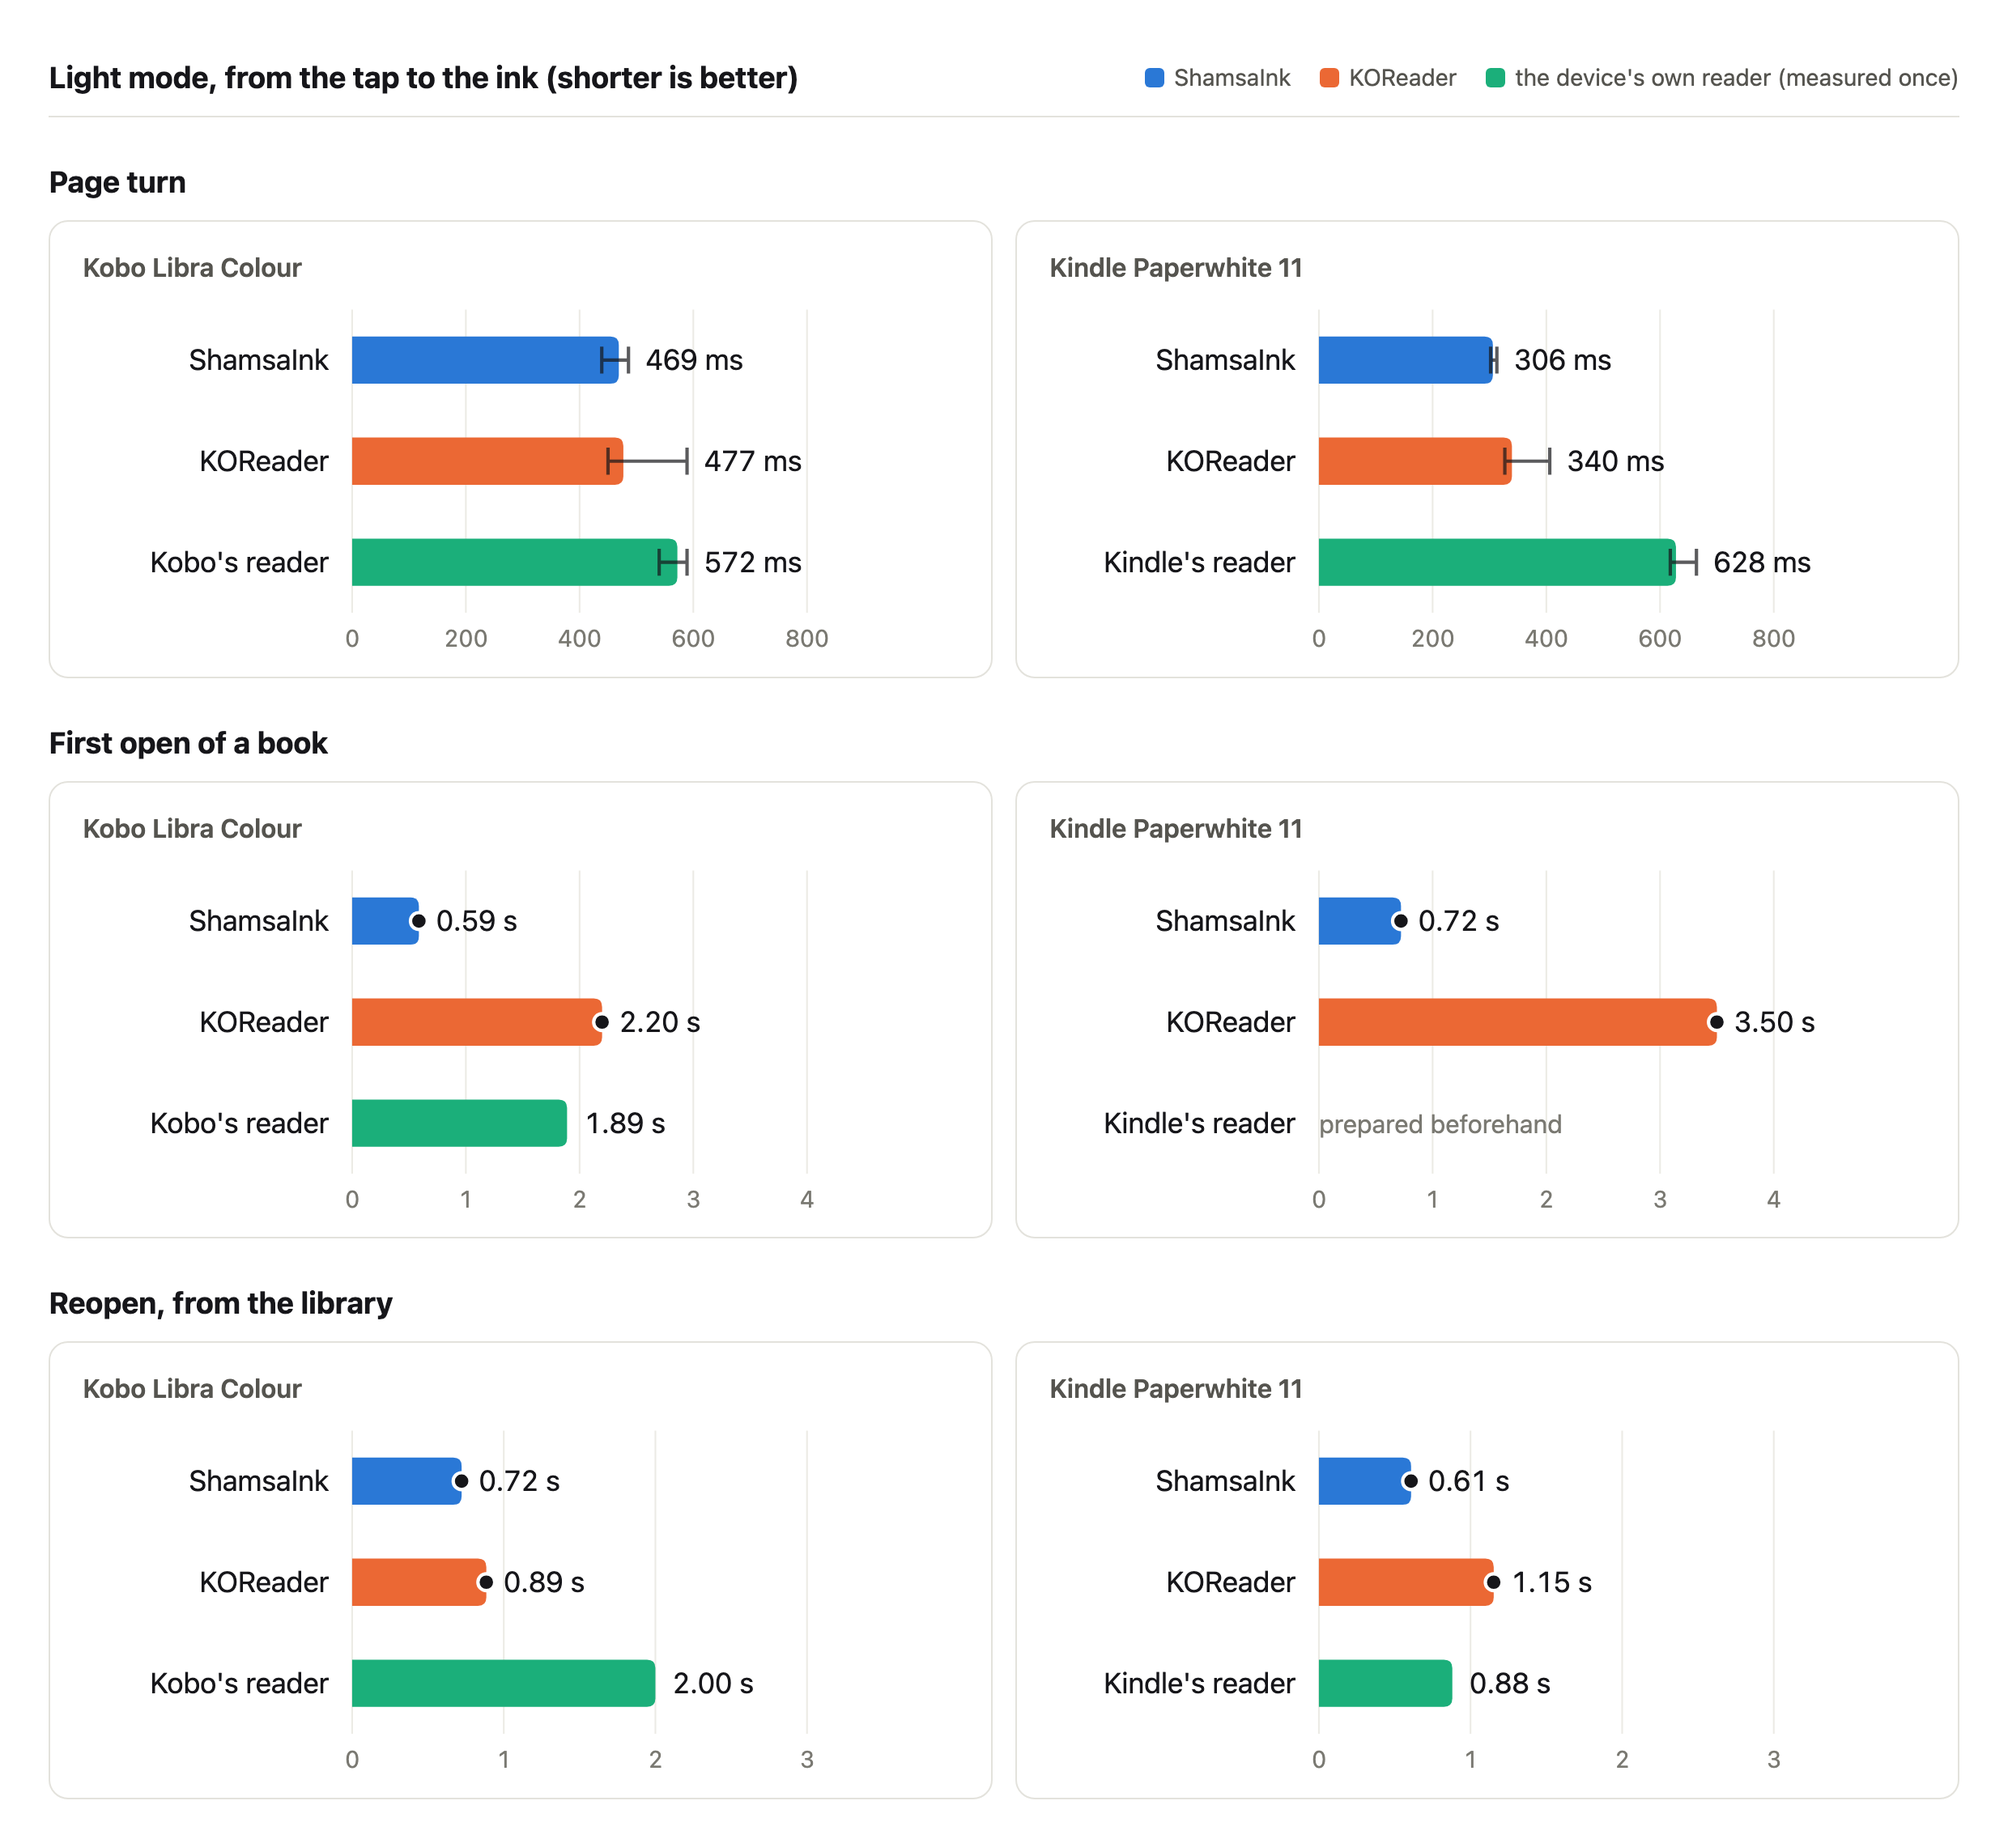
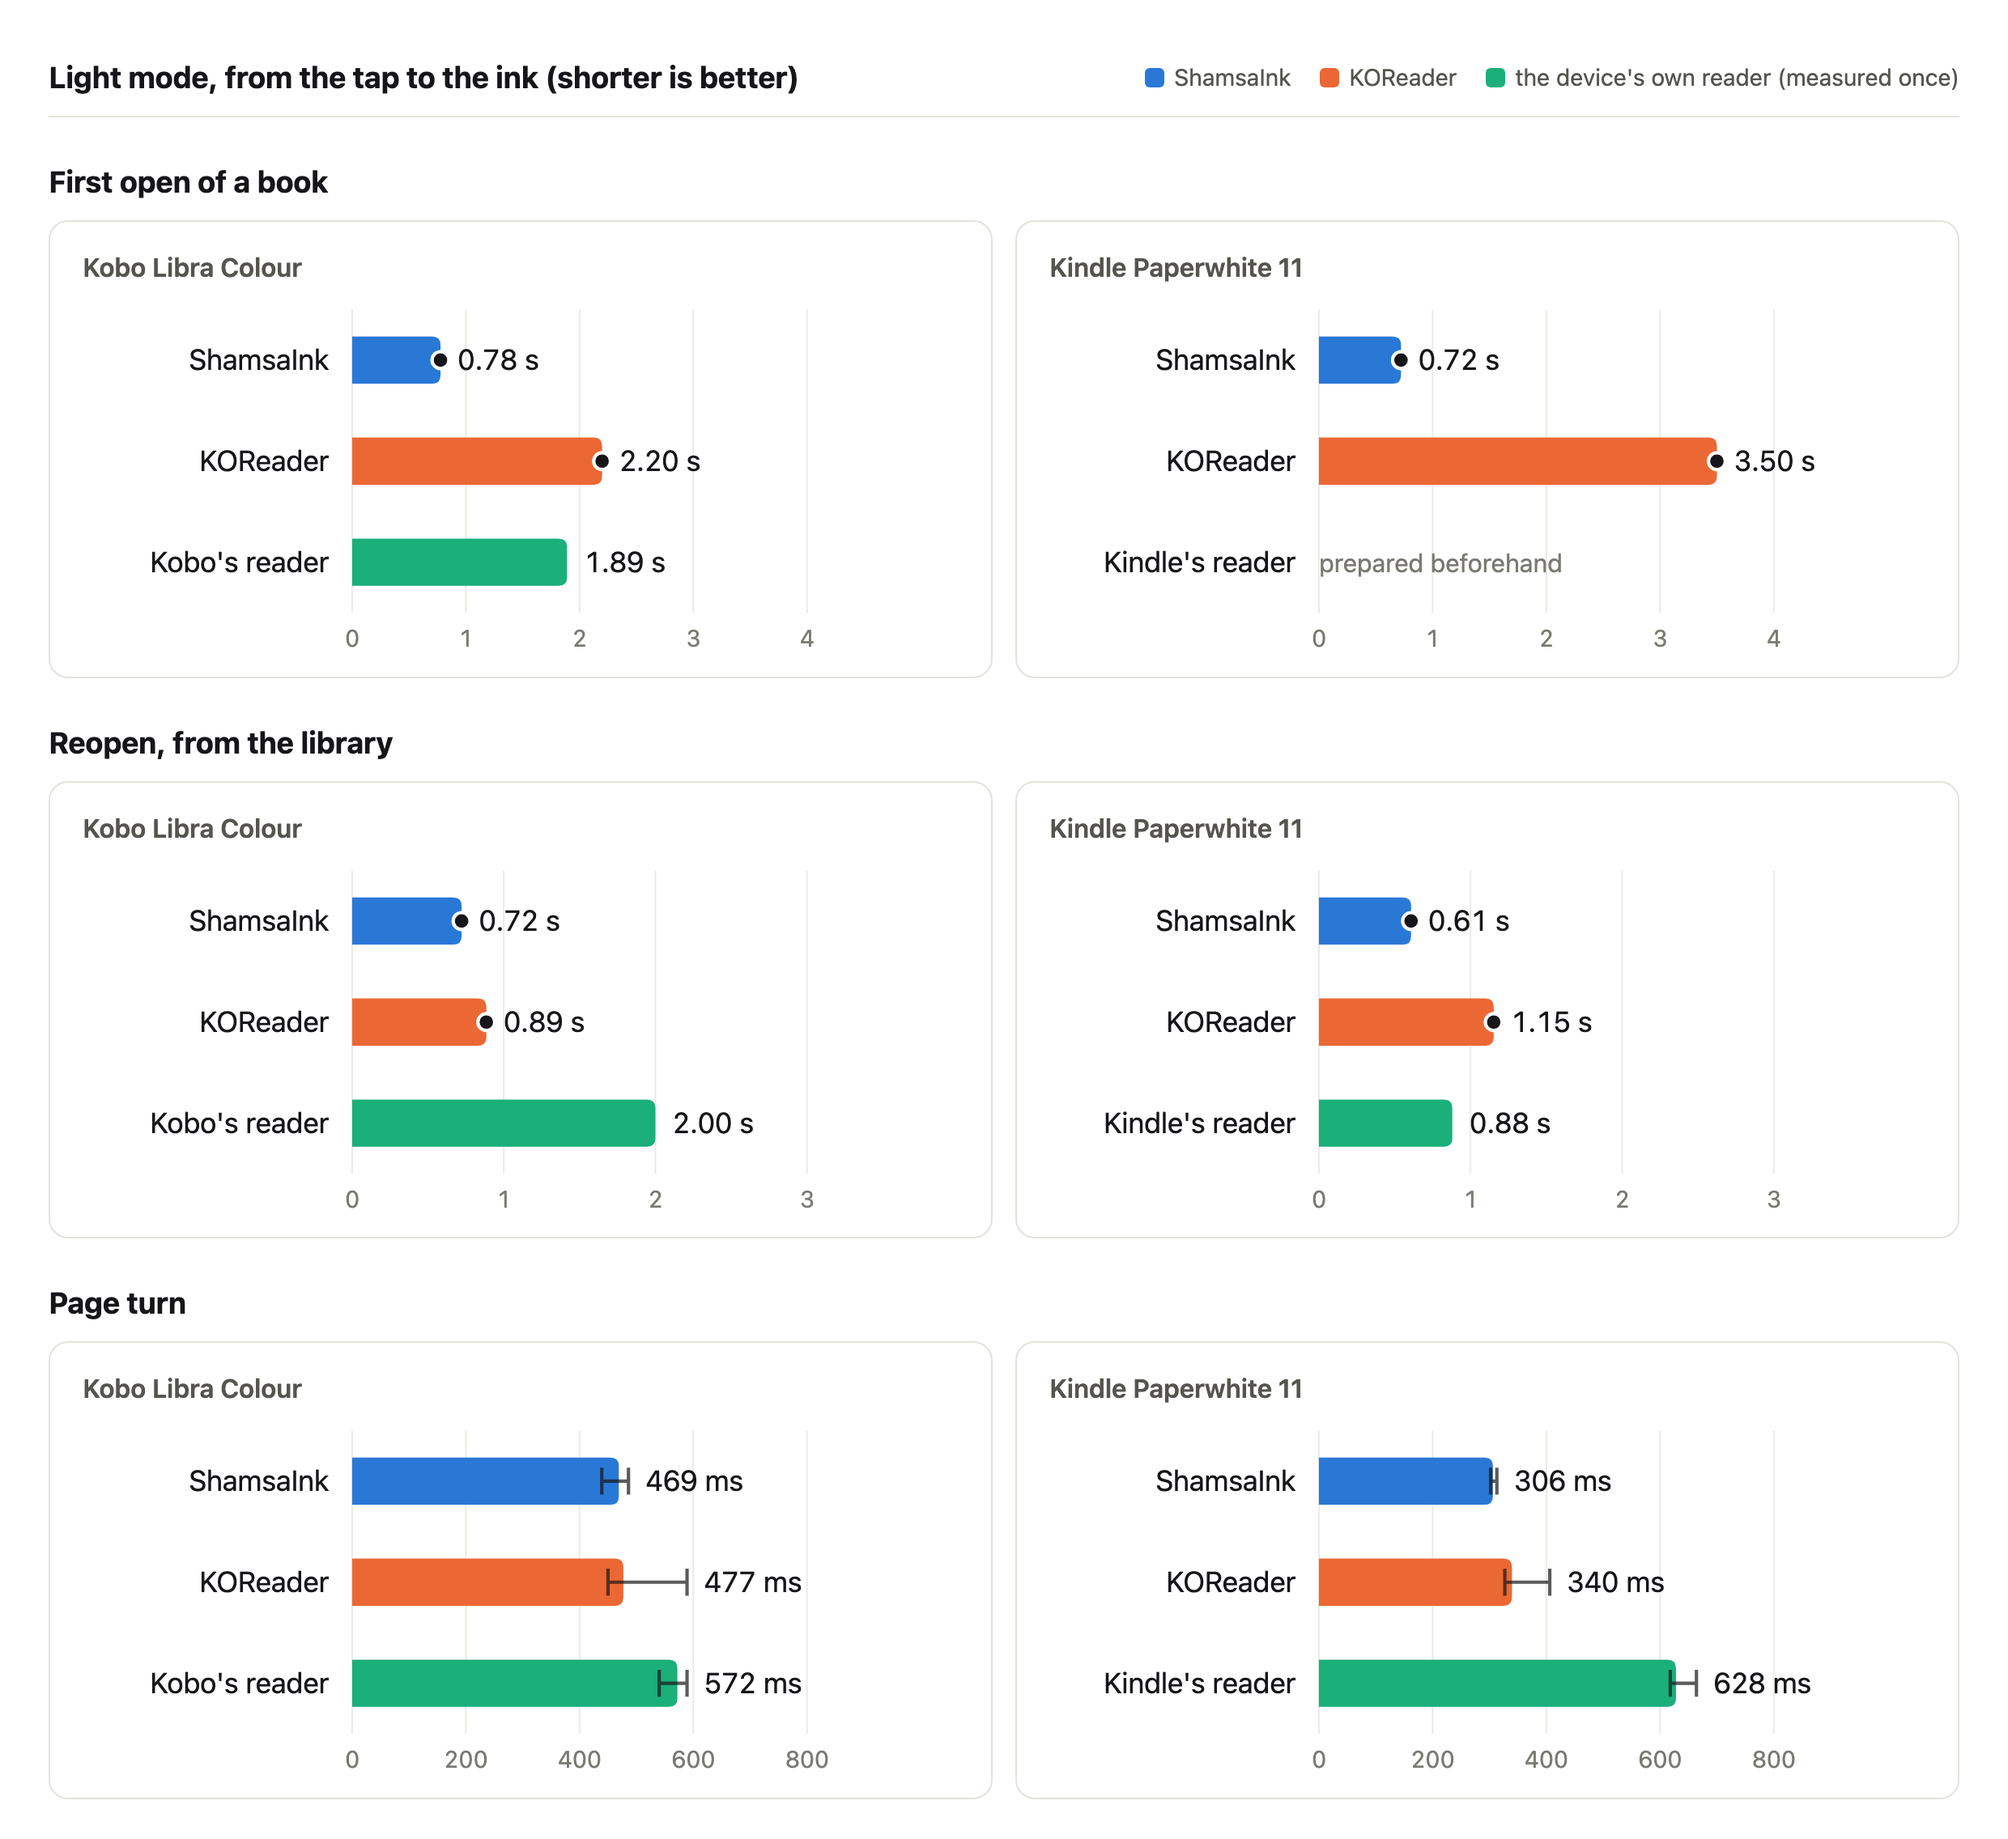
README, perf: the Kobo's first open 0.8 s, not 0.6; the chart and table open, reopen, then turn
The Kobo's run of 2026-11-21 23:14 timed five Farsi books from their cache for its first opens (the scenario took New's
first row; fixed in d44418b). Holmes timed again (2026-11-22): 747-808 ms, median 0.78 s. So the README's table and
chart, CHANGELOG's 0.5.2-beta line (0.2-0.3 s sooner, was 0.3-0.5) and experiment 17's notes are corrected; KOReader 3x
slower there, Kobo's reader 2x. The turns and reopens were always Holmes and stand. The chart and the table now go first
open, reopen, page turn, as the headline does.

diff --git a/perf/summary.template.html b/perf/summary.template.html
@@ -49,7 +49,7 @@ details { background: var(--surface); border: 1px solid var(--line); border-radi
 </div>
 <script>
 const DATA = /*DATA*/[];
-const STEPS = [["turn", "Page turn", "ms"], ["open", "First open", "s"], ["reopen", "Reopen", "s"], ["start", "Start the app", "s"], ["mem", "Memory while reading", "MB"]];
+const STEPS = [["open", "First open", "s"], ["reopen", "Reopen", "s"], ["turn", "Page turn", "ms"], ["start", "Start the app", "s"], ["mem", "Memory while reading", "MB"]];
 const ORDER = ["shamsaink", "koreader", "built-in"];
 const readers = [...new Set(DATA.map(e => e.reader))].sort((a, b) => (ORDER.indexOf(a) + 1 || 9) - (ORDER.indexOf(b) + 1 || 9));
 const NAMES = { shamsaink: "ShamsaInk", koreader: "KOReader", "kobo-libra-colour": "Kobo Libra Colour", "kindle-paperwhite-11": "Kindle Paperwhite 11" };
@@ -121,7 +121,7 @@ function render() {
   }).join("") + "</tr>";
   document.getElementById("table").innerHTML = t;
 }
-// #readme: page turn, first open and reopen in light mode, a row each, the devices side by side, for a picture
+// #readme: first open, reopen and page turn in light mode, a row each, the devices side by side, for a picture
 // (perf/summarize.py --png): the README's chart
 if (location.hash === "#readme" && DATA.length) {
   document.documentElement.classList.add("light"); // the README's picture: light whatever the system's theme

diff --git a/perf/summarize.py b/perf/summarize.py
@@ -5,7 +5,7 @@ them the devices' own readers, measured once by hand (perf/reference/).
 
     python3 -I perf/summarize.py [--since YYYY-MM-DD] [--png FILE]   writes perf/out/summary.html (the charts, one file, nothing
                                                          fetched: open it in a browser) and summary.json (its data);
-                                                         --png: turn, open and reopen as a picture, for the README
+                                                         --png: open, reopen and turn as a picture, for the README
                                                          (docs/images/perf.png), by Google Chrome headless
 
 A times.tsv line: run, name (start-1, open-2, turn-12, reopen-3, reading), kind (time or mem), then for time the last
@@ -95,7 +95,7 @@ CHROME = "/Applications/Google Chrome.app/Contents/MacOS/Google Chrome"
 
 
 def png(page, out):
-    """The page's #readme view (page turn, first open and reopen, light mode, the devices side by side: the README's
+    """The page's #readme view (first open, reopen and page turn, light mode, the devices side by side: the README's
     table) as a picture at twice the size, as tall as it is (the view puts its height in the page's title)."""
     import re
     import subprocess

diff --git a/README.md b/README.md
@@ -110,16 +110,16 @@ The quickest of the readers timed, on both devices: books open 3–5× sooner th
 are as quick as KOReader's or quicker.
 
 <p><img src="docs/images/perf.png" width="720"
-  alt="Light mode, from the tap to the ink. Page turn: on the Kobo, ShamsaInk 469 ms, KOReader 477, Kobo's reader 572; on the Kindle, ShamsaInk 306 ms, KOReader 340, Kindle's reader 628. First open: on the Kobo 0.59 s, 2.20 s and 1.89 s; on the Kindle 0.72 s and 3.50 s. Reopen: on the Kobo 0.72 s, 0.89 s and 2.00 s; on the Kindle 0.61 s, 1.15 s and 0.88 s"></p>
+  alt="Light mode, from the tap to the ink. First open: on the Kobo, ShamsaInk 0.78 s, KOReader 2.20, Kobo's reader 1.89; on the Kindle, ShamsaInk 0.72 s, KOReader 3.50. Reopen: on the Kobo 0.72 s, 0.89 s and 2.00 s; on the Kindle 0.61 s, 1.15 s and 0.88 s. Page turn: on the Kobo 469 ms, 477 ms and 572 ms; on the Kindle 306 ms, 340 ms and 628 ms"></p>
 
 | | ShamsaInk | KOReader | The device's own reader* |
 |---|---|---|---|
-| **Kobo†:** a page turn | **469 ms** | 477 ms | 572 ms |
-| a new book opened | **0.6 s** | 2.2 s (4× slower) | 1.9 s (3× slower) |
+| **Kobo†:** a new book opened | **0.8 s** | 2.2 s (3× slower) | 1.9 s (2× slower) |
 | reopened | **0.7 s** | 0.9 s | 2.0 s (3× slower) |
-| **Kindle:** a page turn | **306 ms** | 340 ms | 628 ms (2× slower) |
-| a new book opened | **0.7 s** | 3.5 s (5× slower) | – (prepared beforehand) |
+| a page turn | **469 ms** | 477 ms | 572 ms |
+| **Kindle:** a new book opened | **0.7 s** | 3.5 s (5× slower) | – (prepared beforehand) |
 | reopened | **0.6 s** | 1.2 s (2× slower) | 0.9 s |
+| a page turn | **306 ms** | 340 ms | 628 ms (2× slower) |
 
 Each time runs from the tap until the screen has finished updating, taken from the e-ink driver's own log on the
 device. They are medians in light mode, on *The Adventures of Sherlock Holmes* (Standard Ebooks) with every setting at

diff --git a/experiments/17-reader-benchmark/NOTES.md b/experiments/17-reader-benchmark/NOTES.md
@@ -129,8 +129,11 @@ one open from the library: the tap seen 0.5 ms after the finger up; then 216 ms 
 library closed (the touch screen 89 ms, the power button 60, the page buttons 60: closing an input device is slow in the
 Kobo's kernel), 22 ms taking them again for the book, and 149 ms reading the opening screen back from its cache (10 MB:
 made on every open, shown only if one takes over 3 s). Fixed in 0.5.2-beta: the inputs taken once for the reader's run,
-the opening screen made once. `make perf` after, light mode: a first open 1.07 → 0.59 s on the Kobo and 0.88 → 0.72 on
+the opening screen made once. `make perf` after, light mode: a first open 1.07 → 0.78 s on the Kobo and 0.88 → 0.72 on
 the Kindle, a reopen 1.01 → 0.72 and 0.77 → 0.61, memory while reading 98 → 81 MB on the Kobo; turns unchanged.
+**Corrected 2026-11-22:** the Kobo's first open was first given as 0.59 s, but that run's first opens took New's
+first row, on a Kobo of 31 books five Farsi books from their cache, not *Holmes* (perf/README.md). Timed again on
+*Holmes* (the current main, 2026-11-22): 747–808 ms, median 0.78 s; the turns and reopens, always on *Holmes*, stand.
 
 **KOReader on the Kobo runs on one core too** (2026-11-21): `cpu1/online` read every 50 ms through its light steps (2
 starts, 2 first opens, 12 turns, 2 reopens) stayed 0 from its first start, when Kobo's interface stopped, to the end.

diff --git a/CHANGELOG.md b/CHANGELOG.md
@@ -6,7 +6,7 @@ is at the end, under "Versions and releases".
 
 ## 0.5.2-beta (2026-11-21)
 Books open sooner.
-- **A book opens from the library about 0.3–0.5 s sooner** (Kobo and Kindle): a new book 0.6 s on the Kobo (was 1.1),
+- **A book opens from the library about 0.2–0.3 s sooner** (Kobo and Kindle): a new book 0.8 s on the Kobo (was 1.1),
   a book reopened 0.7 s (was 1.0); on the Kindle 0.7 and 0.6 s (were 0.9 and 0.8). Leaving a book for the library is
   quicker too. The touch screen and the buttons are now taken once, not let go and taken again at every switch, and
   the opening screen is no longer read again at every open.
